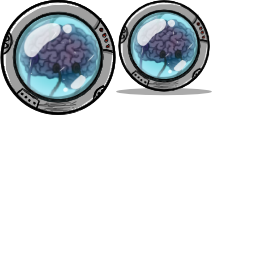
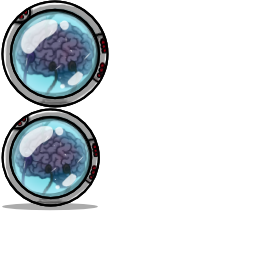
brain insertion animation, updated anim

diff --git a/Robo Rockets/LearningBrain/BrainTeacher.cs b/Robo Rockets/LearningBrain/BrainTeacher.cs
@@ -5,6 +5,7 @@ using System.Linq;
 using System.Text;
 using System.Threading.Tasks;
 using UnityEngine;
+using UtilLibs;
 
 namespace RoboRockets.LearningBrain
 {
@@ -17,6 +18,13 @@ namespace RoboRockets.LearningBrain
         private RocketModuleCluster module;
         [MyCmpGet]
         private KBatchedAnimController controller;
+        [Serialize]
+        bool CurrentlyHasBrain = false;
+        public bool HasBrain => CurrentlyHasBrain;
+
+
+        [Serialize]
+        public bool PreventAnimChanges = false;
 
         private Clustercraft craft;
         //public MeterController brain_content { get; private set; }
@@ -42,22 +50,43 @@ namespace RoboRockets.LearningBrain
         private void OnStorageChange(object data) 
         {
             var loadedBrain = BrainStorage.FindFirst(ModAssets.Tags.SpaceBrain);
-            controller.SetSymbolVisiblity(BrainSymbol, loadedBrain != null);
+
+            bool BrainInStorage = loadedBrain != null;
+
+            controller.SetSymbolVisiblity(BrainSymbol, BrainInStorage);
 
             //brain_content.SetPositionPercent(loadedBrain != null ? 1f : 0f);
 
-            if(loadedBrain != null) { 
+            if(BrainInStorage) { 
                 if(loadedBrain.TryGetComponent<FlyingBrain>(out var flyer))
                 {
                     this.GetComponent<KSelectable>().SetStatusItem(Db.Get().StatusItemCategories.Main, ModAssets.ExperienceLevel, (object)flyer);
+                    
+                    if(CurrentlyHasBrain != BrainInStorage)
+                    {
+                        PreventAnimChanges = true;
+
+                        controller.Play("docking_brain");
+                        controller.Queue("grounded");
+                        controller.onAnimComplete += new KAnimControllerBase.KAnimEvent(OnAnimsComplete);
+                    }
                 }
             }
             else
             {
                 this.GetComponent<KSelectable>().SetStatusItem(Db.Get().StatusItemCategories.Main, ModAssets.NoBrain, (object)null);
             }
-
         }
+
+
+        void OnAnimsComplete(HashedString data)
+        {
+            PreventAnimChanges = false;
+            CurrentlyHasBrain = !CurrentlyHasBrain;
+            controller.onAnimComplete -= OnAnimsComplete;
+        }
+
+
         public void OnClusterLocationChanged(object o)
         {
             var brain = BrainStorage.FindFirst(ModAssets.Tags.SpaceBrain);
@@ -65,7 +94,7 @@ namespace RoboRockets.LearningBrain
             {
                 var speedHandler = brain.GetComponent<FlyingBrain>();
                 speedHandler.TraveledDistance(1);
-                Debug.Log("Brain Learned a bit; new skill level: "+ speedHandler.GetCurrentSpeed());
+                SgtLogger.l("Brain Learned a bit; new skill level: "+ speedHandler.GetCurrentSpeed());
                 craft.AutoPilotMultiplier = speedHandler.GetCurrentSpeed();
                 //craft.PilotSkillMultiplier = speedHandler.GetCurrentSpeed();
             }
@@ -74,7 +103,6 @@ namespace RoboRockets.LearningBrain
 
         public override void OnCleanUp()
         {
-
             craft.Unsubscribe((int)GameHashes.ClusterDestinationChanged, new System.Action<object>(this.OnClusterLocationChanged));
             base.OnCleanUp();
         }

diff --git a/Robo Rockets/LearningBrain/BrainConfig.cs b/Robo Rockets/LearningBrain/BrainConfig.cs
@@ -35,14 +35,14 @@ namespace RoboRockets.LearningBrain
                 initialAnim: "object",
                 sceneLayer: Grid.SceneLayer.Front,
                 collisionShape: EntityTemplates.CollisionShape.RECTANGLE,
-                width: 1.2f,
-                height: 1.2f,
+                width: 1.06f,
+                height: 1.06f,
                 isPickupable: true,
                 sortOrder: 0,
                 element: SimHashes.Creature,
                 additionalTags: new List<Tag>()
                 {
-                    GameTags.IndustrialIngredient,
+                    GameTags.IndustrialProduct,
                     ModAssets.Tags.SpaceBrain,
                     GameTags.PedestalDisplayable
                 });

diff --git a/Robo Rockets/RocketSubstitutionClasses/ConditionAiHasControl.cs b/Robo Rockets/RocketSubstitutionClasses/ConditionAiHasControl.cs
@@ -1,5 +1,6 @@
 
 
+using RoboRockets.LearningBrain;
 using UnityEngine;
 using static RoboRockets.STRINGS;
 
@@ -12,11 +13,11 @@ namespace RoboRockets
 
         public override Status EvaluateCondition()
         {
-            if(module.TryGetComponent<Storage>(out var storage))
+            if(module.TryGetComponent<BrainTeacher>(out var teacher))
             {
                 //module.TryGetComponent<KBatchedAnimController>(out var kanim);
                 
-                if (storage.FindFirst(ModAssets.Tags.SpaceBrain))
+                if (teacher.HasBrain)
                 {
                     //kanim.Play("grounded");
                     return ProcessCondition.Status.Ready;

diff --git a/Robo Rockets/Patches/AddBrainRecipe.cs b/Robo Rockets/Patches/AddBrainRecipe.cs
@@ -41,5 +41,19 @@ namespace RoboRockets.Patches
             }
         }
 
+        [HarmonyPatch(typeof(RocketModuleCluster), nameof(RocketModuleCluster.UpdateAnimations))]
+        public static class SkipAnimSetter
+        {
+            public static bool Prefix(RocketModuleCluster __instance)
+            {
+                if(__instance.TryGetComponent<BrainTeacher>(out var brainTeacher))
+                {
+                    return !brainTeacher.PreventAnimChanges;
+                }
+                return true;
+            }
+            
+        }
+
     }
 }
